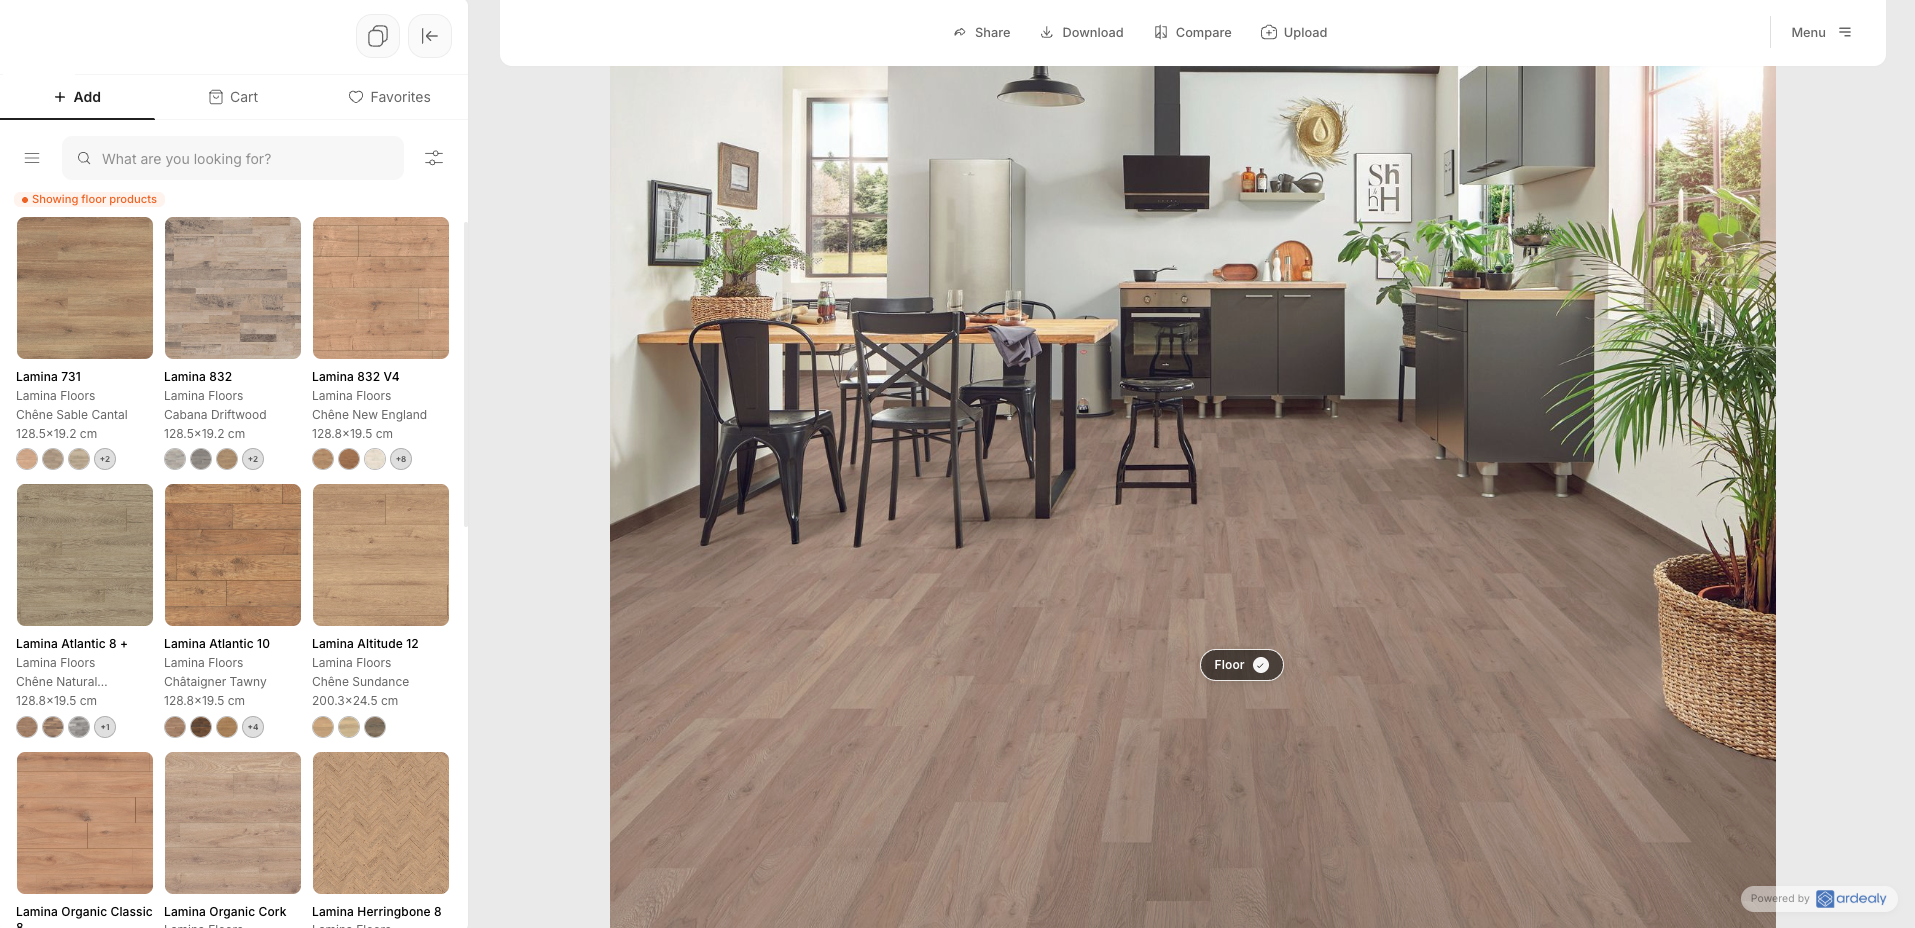
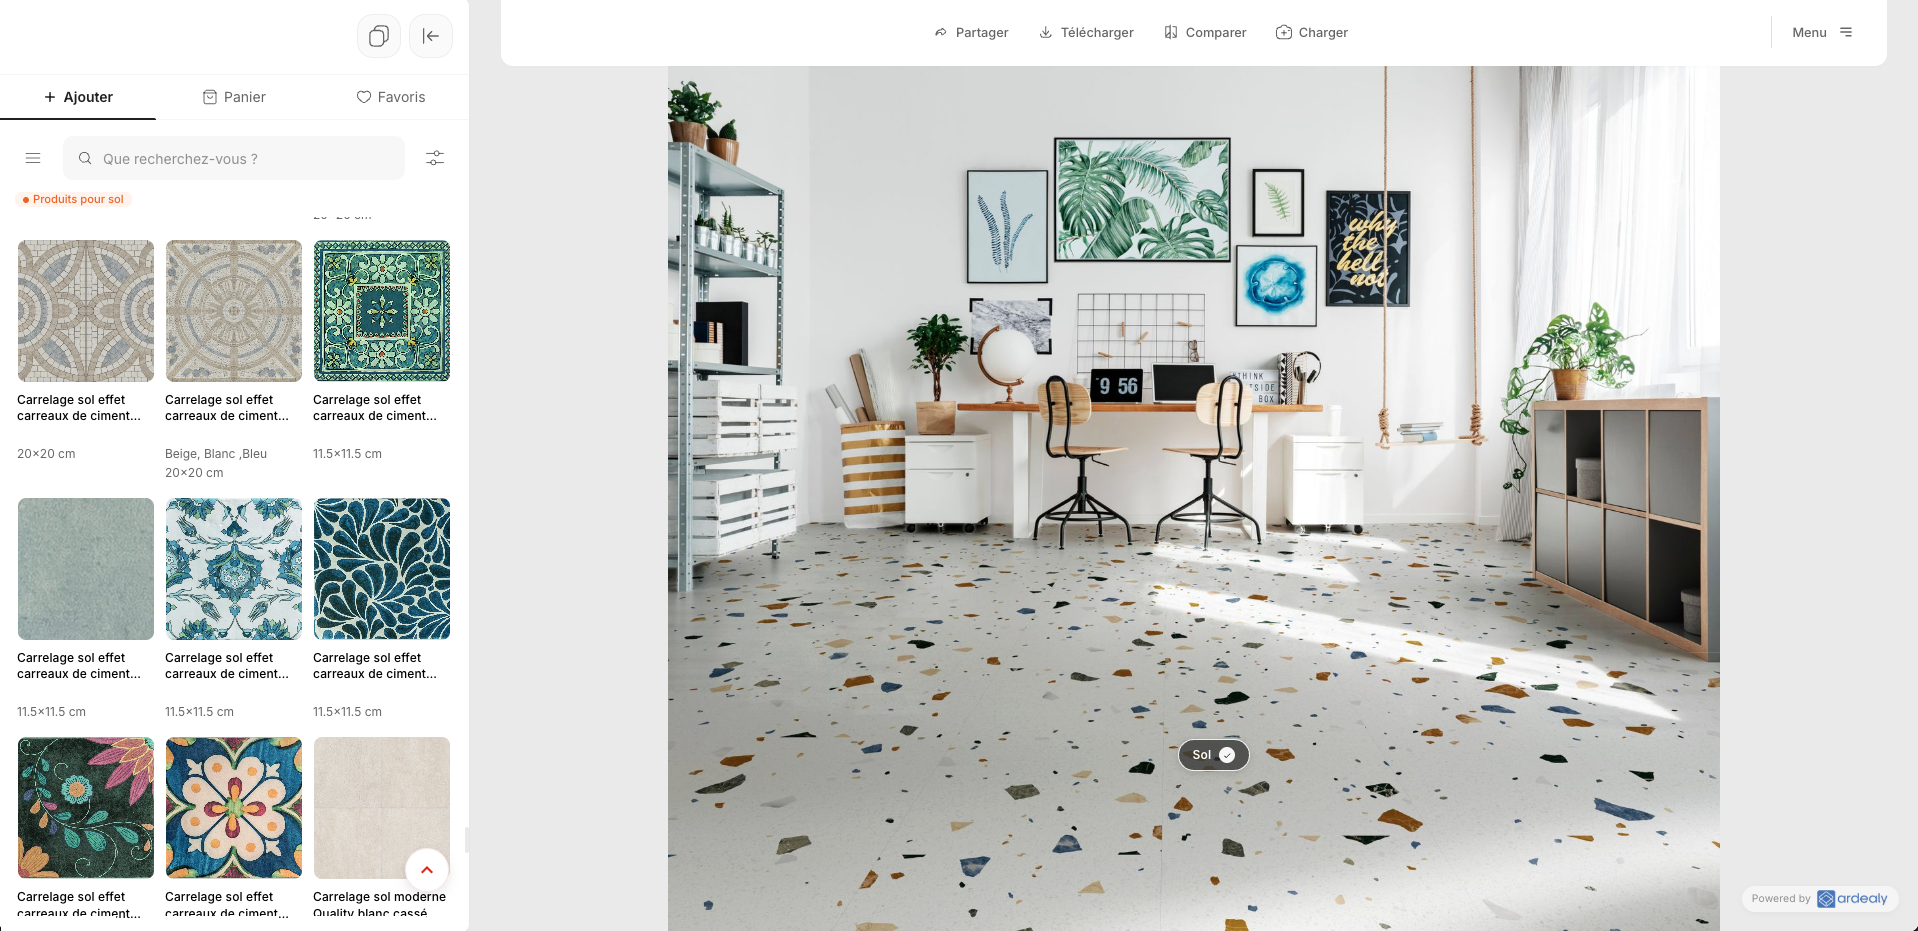
Migrate-from-Roomvo: show tiles too (before/after + visualizer) + mention all categories

diff --git a/migrate-from-roomvo/index.html b/migrate-from-roomvo/index.html
@@ -483,7 +483,7 @@ p{color:var(--gray)}
         <div class="window-bar"><span class="dotr"></span><span class="dotr"></span><span class="dotr"></span><span class="window-url" id="heroUrl">yourbrand.com</span></div>
         <div class="hero-media">
           <!-- TODO: swap for a dedicated HD room render. File: assets/hero-render.png -->
-          <img src="assets/hero-render.png" alt="A floor visualized in a real room">
+          <img src="assets/hero-render.png" alt="A product visualized in a real room">
           <div class="chip chip-swatch">
             <img src="assets/swatch.png" alt="">
             <div><b>Lamina 832 V4</b><span>Applied to floor</span></div>
@@ -536,11 +536,11 @@ p{color:var(--gray)}
          <img class="ba-fill" src="assets/after.jpg">  and  <img class="ba-fill" src="assets/before.jpg"> -->
     <div class="ba-slider reveal" id="baSlider">
       <div class="ba-after">
-        <img class="ba-fill" src="assets/after.jpg" alt="Floor option shown in the room">
+        <img class="ba-fill" src="assets/after.jpg" alt="A product option shown in the room">
         <span class="ba-lab r">After</span>
       </div>
       <div class="ba-before" id="baBefore">
-        <img class="ba-fill" src="assets/before.jpeg" alt="Original floor in the room">
+        <img class="ba-fill" src="assets/before.jpeg" alt="The original room before the change">
         <span class="ba-lab l">Before</span>
       </div>
       <div class="ba-handle" id="baHandle"><div class="ba-knob"><svg width="17" height="11" viewBox="0 0 17 11" fill="none" stroke="currentColor" stroke-width="1.7" stroke-linecap="round" stroke-linejoin="round"><path d="M5.5 1L1.5 5.5 5.5 10M11.5 1l4 4.5-4 4.5"/></svg></div></div>
@@ -554,7 +554,7 @@ p{color:var(--gray)}
   <div class="wrap center">
     <span class="eyebrow reveal" style="display:block;margin-bottom:14px">You keep the visualizer</span>
     <h2 class="reveal">Right where the decision happens.</h2>
-    <p class="lead reveal" style="margin:16px auto 0">You keep the photorealistic, in-the-room experience your customers already expect, fast, 4K, on any device. ARdealy just doesn't stop there.</p>
+    <p class="lead reveal" style="margin:16px auto 0">Your customers try your products in their own space, for flooring, tiles, wall coverings or rugs alike. Fast, 4K, on any device. And ARdealy doesn't stop at the render.</p>
     <!-- LIVE VISUALIZER (interactive demo) -->
     <div class="vizwrap reveal">
       <div class="window">
